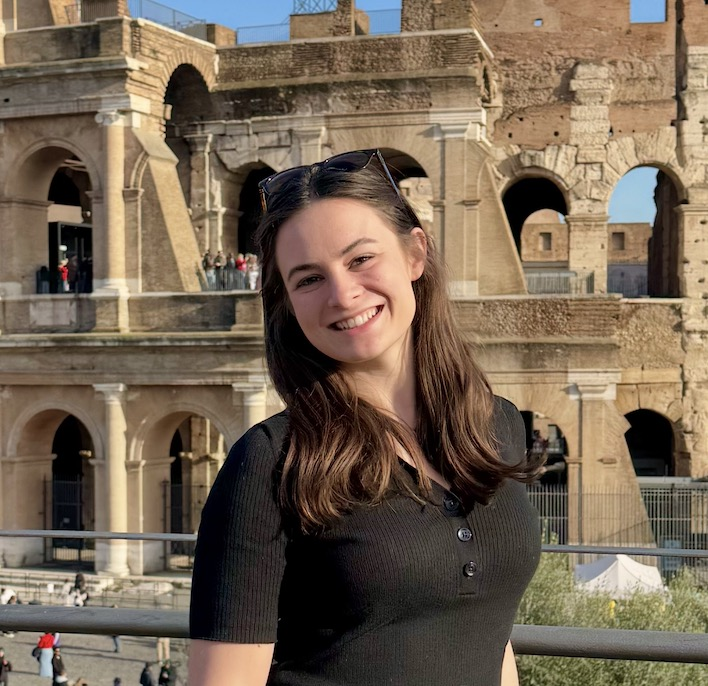
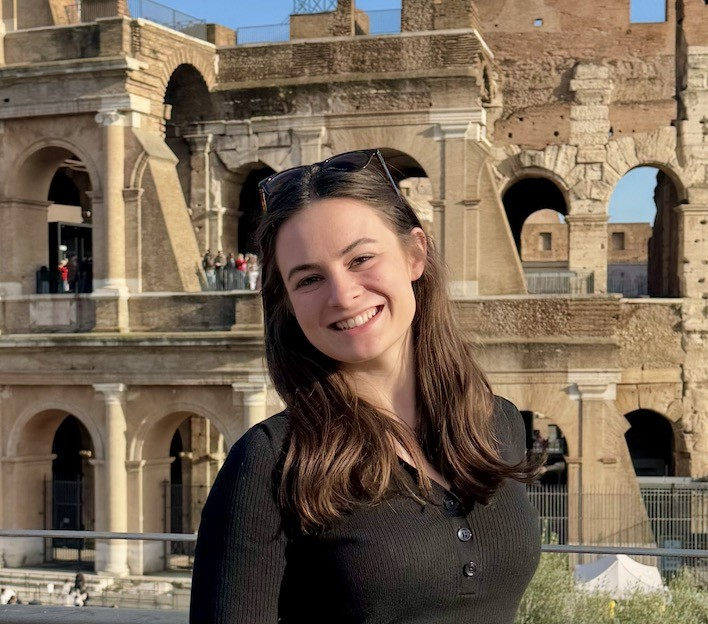
Update profile photo

diff --git a/src/profile.ts b/src/profile.ts
@@ -42,7 +42,7 @@ export const profile = {
    * (e.g. put photo.jpg in the public/ folder and change this to "/photo.jpg").
    * It must be a real image file: the grader fetches it and checks.
    */
-  photoPath: "/20260903_190245000_iOS.jpg",
+  photoPath: "20260903_191319000_iOS.jpg",
 
   /**
    * Who can see your roster card:
